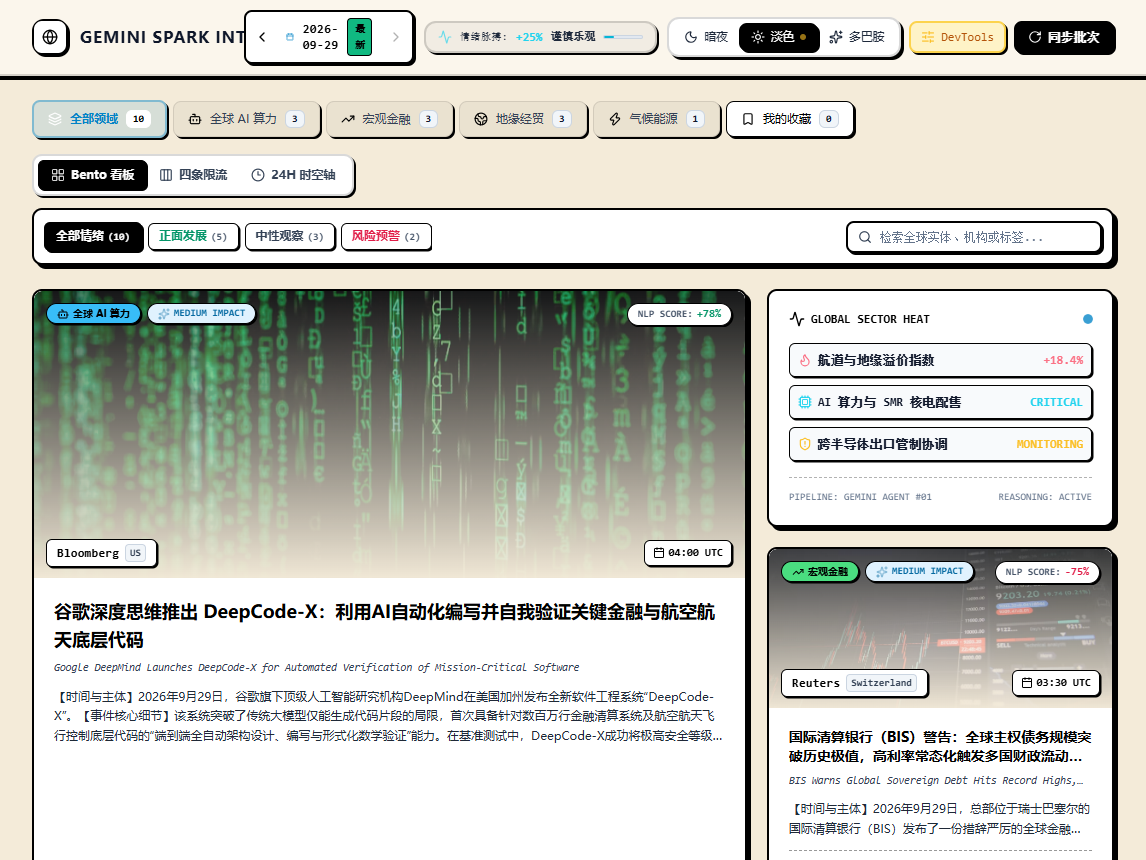
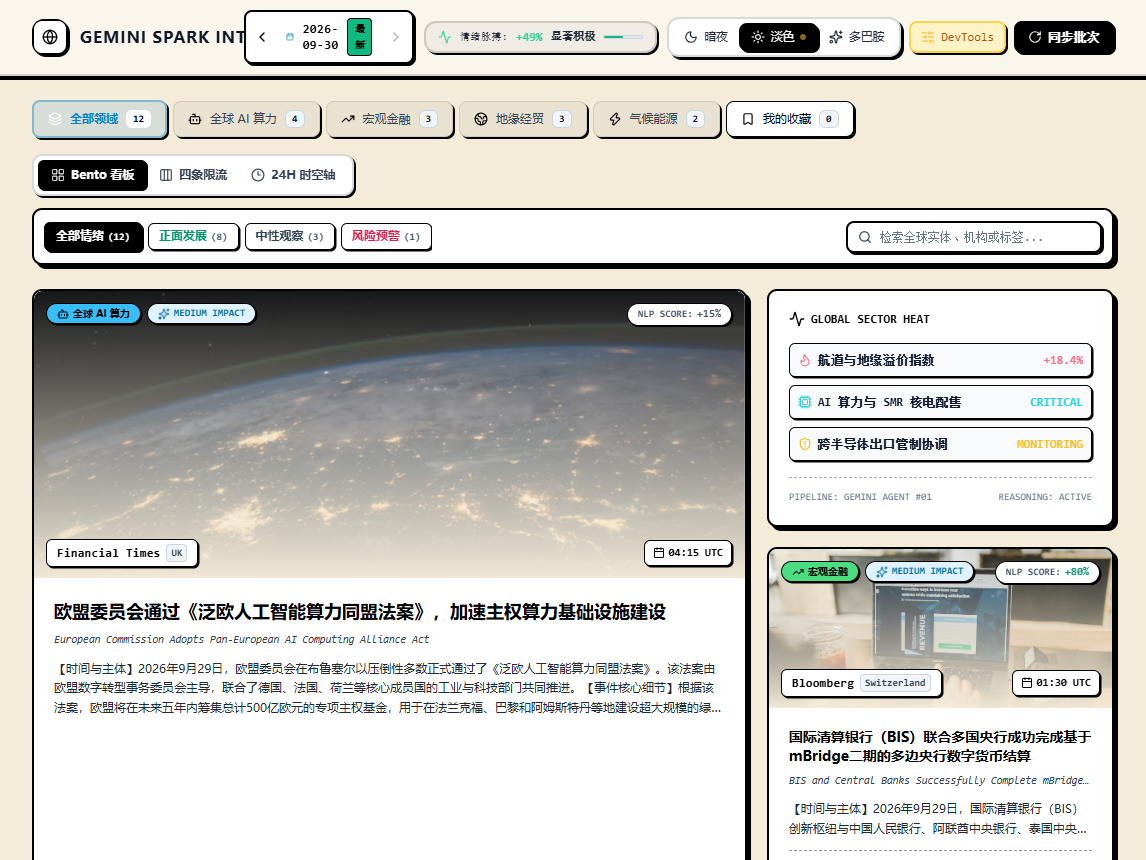
fix(ui): add close exit button and 8s auto-dismiss timer to latest briefing notification badge

diff --git a/src/components/DateStepperCapsule.tsx b/src/components/DateStepperCapsule.tsx
@@ -1,5 +1,5 @@
 import React, { useState, useRef, useEffect } from 'react';
-import { ChevronLeft, ChevronRight, Calendar, Sparkles, Check } from 'lucide-react';
+import { ChevronLeft, ChevronRight, Calendar, Sparkles, Check, X } from 'lucide-react';
 
 export interface DateStepperCapsuleProps {
   currentDate: string;
@@ -8,6 +8,7 @@ export interface DateStepperCapsuleProps {
   isLoading?: boolean;
   hasNewerBatchAvailable?: boolean;
   onJumpToLatest?: () => void;
+  onDismissNewerBatch?: () => void;
 }
 
 export const DateStepperCapsule: React.FC<DateStepperCapsuleProps> = ({
@@ -16,9 +17,11 @@ export const DateStepperCapsule: React.FC<DateStepperCapsuleProps> = ({
   onDateChange,
   isLoading = false,
   hasNewerBatchAvailable = false,
-  onJumpToLatest
+  onJumpToLatest,
+  onDismissNewerBatch
 }) => {
   const [isOpen, setIsOpen] = useState(false);
+  const [isDismissed, setIsDismissed] = useState(false);
   const containerRef = useRef<HTMLDivElement>(null);
 
   // 计算当前日期索引 (availableDates 严格降序：索引 0 为最新)
@@ -88,6 +91,29 @@ export const DateStepperCapsule: React.FC<DateStepperCapsuleProps> = ({
       document.removeEventListener('keydown', handleKeyDown);
     };
   }, [isOpen]);
+
+  // 当外部 hasNewerBatchAvailable 改变或日期改变时，重置本地已退出标记
+  useEffect(() => {
+    setIsDismissed(false);
+  }, [hasNewerBatchAvailable, currentDate]);
+
+  const handleDismiss = (e?: React.MouseEvent) => {
+    if (e) e.stopPropagation();
+    setIsDismissed(true);
+    if (onDismissNewerBatch) {
+      onDismissNewerBatch();
+    }
+  };
+
+  // 8秒自动倒计时退出机制：避免通知弹窗永久霸屏，提升浏览沉浸感
+  useEffect(() => {
+    if (hasNewerBatchAvailable && !isLatest && !isDismissed) {
+      const timer = setTimeout(() => {
+        handleDismiss();
+      }, 8000);
+      return () => clearTimeout(timer);
+    }
+  }, [hasNewerBatchAvailable, isLatest, isDismissed]);
 
   return (
     <div ref={containerRef} className="relative inline-flex items-center select-none font-mono">
@@ -193,17 +219,30 @@ export const DateStepperCapsule: React.FC<DateStepperCapsuleProps> = ({
         </div>
       )}
 
-      {/* 实时新批次漂浮轻提示 (当用户回溯历史，且后台生成完毕最新批次时呈现) */}
-      {!isOpen && hasNewerBatchAvailable && onJumpToLatest && (
-        <div className="absolute top-full right-0 mt-2 z-40 whitespace-nowrap">
+      {/* 实时新批次漂浮轻提示 (当用户回溯历史，且后台生成完毕最新批次时呈现；支持手动点击关闭与8秒自动退出) */}
+      {!isOpen && hasNewerBatchAvailable && !isLatest && !isDismissed && onJumpToLatest && (
+        <div className="absolute top-full right-0 mt-2 z-40 flex items-center shadow-[3px_3px_0px_#000] rounded-md border-2 border-black bg-amber-400 text-black font-mono overflow-hidden whitespace-nowrap animate-in fade-in zoom-in-95 duration-200">
           <button
             type="button"
-            onClick={onJumpToLatest}
-            className="flex items-center gap-1.5 bg-amber-400 text-black font-mono font-bold text-xs px-2.5 py-1 rounded-md border-2 border-black shadow-[3px_3px_0px_#000] hover:bg-amber-300 active:translate-y-0.5 transition-all animate-bounce cursor-pointer"
+            onClick={() => {
+              handleDismiss();
+              onJumpToLatest();
+            }}
+            className="flex items-center gap-1.5 font-bold text-xs px-2.5 py-1.5 hover:bg-amber-300 active:translate-y-0.5 transition-all cursor-pointer"
             title="点击切换到刚刚生成的今日最新批次"
           >
-            <Sparkles className="w-3.5 h-3.5" />
+            <Sparkles className="w-3.5 h-3.5 text-black flex-shrink-0" />
             <span>今日最新研报已就绪 · 点击查看</span>
+          </button>
+          
+          <button
+            type="button"
+            onClick={handleDismiss}
+            className="px-2 py-1.5 border-l-2 border-black hover:bg-amber-500 text-black/80 hover:text-black transition-colors cursor-pointer flex items-center justify-center flex-shrink-0"
+            title="关闭并退出提示"
+            aria-label="关闭并退出提示"
+          >
+            <X className="w-3.5 h-3.5 stroke-[2.5]" />
           </button>
         </div>
       )}

diff --git a/src/components/SparkNewsDashboard.tsx b/src/components/SparkNewsDashboard.tsx
@@ -181,19 +181,22 @@ export const SparkNewsDashboard: React.FC = () => {
 
   // 日期步进切换与跳转至最新批次
   const handleDateChange = useCallback((newDate: string) => {
+    setHasNewerBatchAvailable(false);
     if (newDate === selectedDate) return;
     setSelectedDate(newDate);
     setPage(1);
-    if (availableDates.length > 0 && newDate >= availableDates[0]) {
-      setHasNewerBatchAvailable(false);
-    }
-  }, [selectedDate, availableDates]);
+  }, [selectedDate]);
 
   const handleJumpToLatest = useCallback(() => {
+    setHasNewerBatchAvailable(false);
     if (availableDates.length > 0) {
       handleDateChange(availableDates[0]);
     }
   }, [availableDates, handleDateChange]);
+
+  const handleDismissNewerBatch = useCallback(() => {
+    setHasNewerBatchAvailable(false);
+  }, []);
 
   // 初始化获取可用归档日期列表
   useEffect(() => {
@@ -590,6 +593,7 @@ export const SparkNewsDashboard: React.FC = () => {
         onDateChange={handleDateChange}
         hasNewerBatchAvailable={hasNewerBatchAvailable}
         onJumpToLatest={handleJumpToLatest}
+        onDismissNewerBatch={handleDismissNewerBatch}
       />
 
       {/* 静默刷新指示呼吸指示条 (触发时不打扰正常浏览) */}

diff --git a/src/components/IntelligenceHeader.tsx b/src/components/IntelligenceHeader.tsx
@@ -21,6 +21,7 @@ export interface IntelligenceHeaderProps {
   onDateChange: (date: string) => void;
   hasNewerBatchAvailable?: boolean;
   onJumpToLatest?: () => void;
+  onDismissNewerBatch?: () => void;
 }
 
 export const IntelligenceHeader: React.FC<IntelligenceHeaderProps> = ({
@@ -33,7 +34,8 @@ export const IntelligenceHeader: React.FC<IntelligenceHeaderProps> = ({
   availableDates,
   onDateChange,
   hasNewerBatchAvailable = false,
-  onJumpToLatest
+  onJumpToLatest,
+  onDismissNewerBatch
 }) => {
   const [isRefreshing, setIsRefreshing] = useState(false);
 
@@ -123,6 +125,7 @@ export const IntelligenceHeader: React.FC<IntelligenceHeaderProps> = ({
               isLoading={isSyncing}
               hasNewerBatchAvailable={hasNewerBatchAvailable}
               onJumpToLatest={onJumpToLatest}
+              onDismissNewerBatch={onDismissNewerBatch}
             />
 
             {/* 2. 全球宏观情绪极性指标 (唯一保留且精简的高价值情报胶囊) */}
